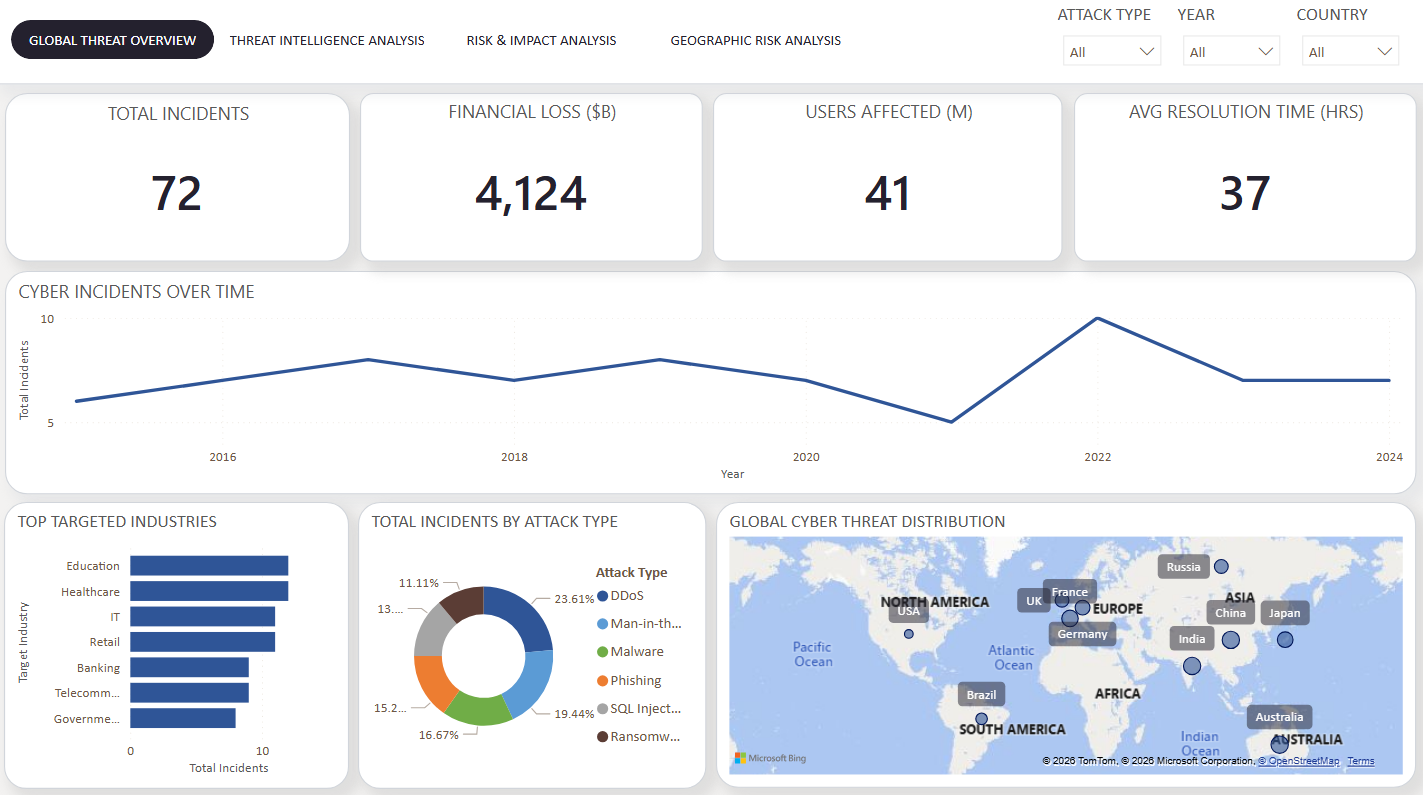
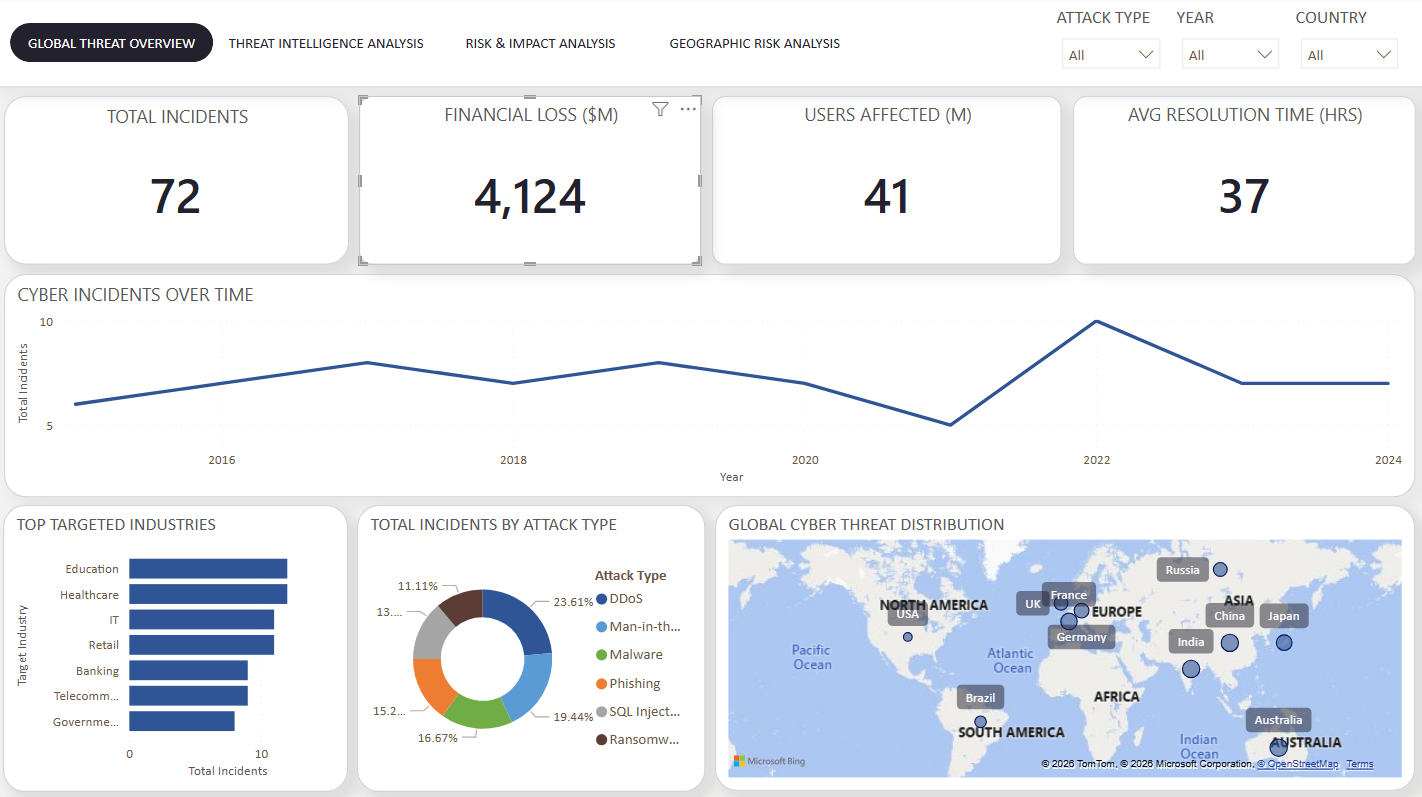
Added README.md and edited cyber-threat-analysis.md

diff --git a/cyber-threat-analysis.md b/cyber-threat-analysis.md
@@ -1,9 +1,140 @@
 # Cyber Threat Analysis
-## Global Threat Overview
+
+## Power BI Portfolio Case Study
+
+This project is a multi-page **Power BI dashboard** designed to analyze cyber incidents across attack types, industries, years, and countries. It brings together operational, financial, and geographic views of cyber risk so decision-makers can quickly identify where incidents are concentrated, which attack patterns are most damaging, and where response performance may need improvement.
+
+The dashboard is structured around four business questions:
+
+- How is cyber activity changing over time?
+- Which attack types and vulnerabilities are driving the most incidents and losses?
+- Which industries and countries appear most exposed?
+- Where are response times longest, and what does that imply for risk management?
+
+## Project Objective
+
+The goal of this dashboard is to turn raw cyber incident data into an executive-ready risk monitoring tool. Rather than looking at incidents in isolation, the report connects **incident volume**, **financial loss**, **users affected**, and **resolution time** to help stakeholders prioritize mitigation efforts and allocate resources more effectively.
+
+## Dashboard Walkthrough
+
+### 1. Global Threat Overview
+
 ![Global Threat Overview](images/Global%20Threat%20Overview.png)
-## Threat Intelligence Analysis
+
+*Latest screenshot of the Global Threat Overview page, showing KPI cards, the incident trend over time, top targeted industries, attack-type distribution, and the global threat map.*
+
+This landing page provides a high-level summary of the cyber threat environment. Key headline metrics shown in the dashboard include:
+
+- **72 total incidents**
+- **$4,124M financial loss**
+- **41M users affected**
+- **37 average resolution hours**
+
+The time series shows incident counts fluctuating across the reporting period, with a visible spike in **2022**, suggesting a year of elevated threat activity. The industry breakdown indicates that **Education, Healthcare, and IT** are among the most targeted sectors, while the attack type distribution shows activity spread across multiple vectors rather than being dominated by a single category.
+
+### Business Insight
+
+This view suggests that cyber exposure is broad-based, but not evenly distributed. A concentrated level of targeting in sectors such as education and healthcare may reflect environments with large user populations, legacy systems, or higher disruption sensitivity. The 2022 spike also signals the need for year-over-year monitoring rather than relying on static risk assumptions.
+
+### 2. Threat Intelligence Analysis
+
 ![Threat Intelligence Analysis](images/Threat%20Intelligence%20Analysis.png)
-## Risk and Impact Analysis
+
+This page focuses on how attack patterns and exploited vulnerabilities evolve over time.
+
+The stacked incident chart shows cyber events distributed across attack types including:
+
+- DDoS
+- Malware
+- Man-in-the-Middle
+- Phishing
+- Ransomware
+- SQL Injection
+
+The vulnerability analysis highlights **Social Engineering** and **Unpatched Software** as the most exploited weakness categories, followed by **Zero-day** and **Weak Passwords**. The resolution-time trend also shows that response performance varies materially by vulnerability type from year to year.
+
+### Business Insight
+
+The vulnerability view points to a clear operational theme: many incidents appear to be linked not only to advanced threats, but also to **preventable control gaps**. Social engineering, weak credentials, and unpatched software all indicate that foundational security hygiene remains critical. The year-by-year resolution swings further suggest that some attack classes are less predictable operationally and may require more specialized response playbooks.
+
+### 3. Risk and Impact Analysis
+
 ![Risk and Impact Analysis](images/Risk%20and%20Impact%20Analysis.png)
-## Geographic Risk Analysis
-![Risk and Impact Analysis](images/Geographic%20Risk%20Analysis.png)
+
+This page translates cyber activity into business impact metrics.
+
+Headline KPIs shown in the dashboard include:
+
+- **$4,124M total financial loss**
+- **57M average loss per incident**
+- **37 average resolution hours**
+- **41M users affected**
+
+The financial impact by attack type shows that:
+
+- **DDoS** has the highest financial loss at **$1,137M**
+- **Phishing** follows at **$762M**
+- **Man-in-the-Middle** contributes **$705M**
+- **SQL Injection** contributes **$617M**
+- **Malware** contributes **$574M**
+- **Ransomware** contributes **$330M**
+
+The users-affected chart indicates that **DDoS** accounts for the largest share of impact, while the resolution-time chart shows that **Man-in-the-Middle** and **SQL Injection** incidents require the longest average handling time among the displayed attack types.
+
+Industry loss analysis shows the highest financial exposure in:
+
+- **IT**
+- **Healthcare**
+- **Education**
+
+### Business Insight
+
+This page makes an important distinction between **frequency** and **severity**. The most operationally visible attacks are not always the ones with the longest recovery effort, and the attacks with the largest user impact are not always the most numerous. That distinction matters for leadership teams deciding where to invest. A response model built only around incident counts would underweight attack types that create longer disruption windows or higher financial consequences.
+
+### 4. Geographic Risk Analysis
+
+![Geographic Risk Analysis](images/Geographic%20Risk%20Analysis.png)
+
+This page analyzes cyber risk by country.
+
+The dashboard highlights:
+
+- **Australia** as the highest risk country at **14%**
+- **10 total countries impacted**
+- **USA** as the country with the longest response time
+
+The bar charts show that total incidents are highest in **Australia, China, and India**, while financial losses are led by **Australia and France**, with **China, India, and Germany** also showing high loss levels. The response-time chart indicates that the **USA** has the slowest incident resolution, followed by **China** and the **UK**.
+
+### Business Insight
+
+The geographic view shows that risk should not be assessed only by incident count. Some countries combine high volume with high financial loss, while others stand out because response time is slower. That means regional cyber posture should be evaluated across three dimensions at once: **incident frequency**, **business impact**, and **response effectiveness**.
+
+## Key Takeaways
+
+- Cyber risk in this dataset is distributed across multiple attack vectors, with no single threat type explaining the full picture.
+- **DDoS** appears especially important from a business-impact perspective because it leads in financial loss and users affected.
+- **Man-in-the-Middle** and **SQL Injection** deserve attention from an operations standpoint because they show longer average resolution times.
+- **Social Engineering** and **Unpatched Software** stand out as major exploited vulnerabilities, pointing to control gaps that are often addressable through process and preventive security measures.
+- **IT, Healthcare, and Education** appear to be the most financially or operationally exposed sectors in this dashboard.
+- Country-level risk is uneven, with **Australia** standing out on risk share and the **USA** standing out on response duration.
+
+## Recommendations
+
+- Prioritize mitigation for high-impact attack types, especially **DDoS**, where business disruption and financial exposure appear greatest.
+- Strengthen foundational controls around **patching, password security, and phishing resistance**, since the vulnerability analysis points to recurring preventable weaknesses.
+- Review incident response workflows for attack types with longer handling times, particularly **Man-in-the-Middle** and **SQL Injection**, to reduce containment and recovery delays.
+- Use industry targeting patterns to guide sector-specific controls, especially for **IT, Healthcare, and Education**, where the dashboard shows elevated pressure.
+- Evaluate country-level response readiness separately from incident volume; regions with slower resolution may need additional staffing, automation, or escalation support.
+- Monitor trends over time, especially years with visible spikes such as **2022**, to determine whether threat surges reflect temporary events or a sustained shift in risk.
+
+## Technical Highlights
+
+- Built in **Power BI**
+- Designed as a **four-page interactive report**
+- Includes slicers for **Attack Type**, **Year**, and **Country**
+- Combines **KPI cards**, **time-series analysis**, **bar charts**, **donut charts**, and **map visuals**
+- Supports both **executive summary reporting** and **drill-down analysis** by threat type, geography, and industry
+
+## Why This Project Matters
+
+This case study demonstrates how analytics can make cybersecurity data more actionable for business stakeholders. Instead of treating cyber incidents as isolated technical events, the dashboard frames them in terms of financial impact, operational burden, affected users, and geographic concentration. That makes the report useful not just for analysts, but also for leaders responsible for risk prioritization, resilience planning, and resource allocation.

diff --git a/README.md b/README.md
@@ -1,0 +1,25 @@
+# Cyber Threat Analysis
+
+This project is a **Power BI dashboard** that analyzes cyber incidents across attack types, industries, years, and countries. It combines operational, financial, and geographic views to highlight where cyber risk is concentrated and how different threats affect business impact and response performance.
+
+The report includes four dashboard pages:
+
+- Global Threat Overview
+- Threat Intelligence Analysis
+- Risk and Impact Analysis
+- Geographic Risk Analysis
+
+## Project Snapshot
+
+- Tool: **Power BI**
+- Focus: **Cybersecurity analytics and risk monitoring**
+- Core metrics: **Incidents, financial loss, users affected, and resolution time**
+- Filters: **Attack Type, Year, Country**
+
+## Preview
+
+![Global Threat Overview](images/Global%20Threat%20Overview.png)
+
+## Full Case Study
+
+For the full portfolio write-up, business insights, and dashboard walkthrough, see [cyber-threat-analysis.md](cyber-threat-analysis.md).
